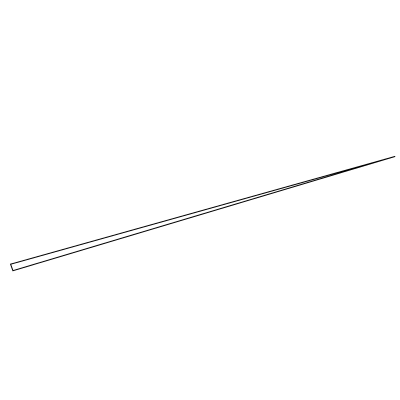
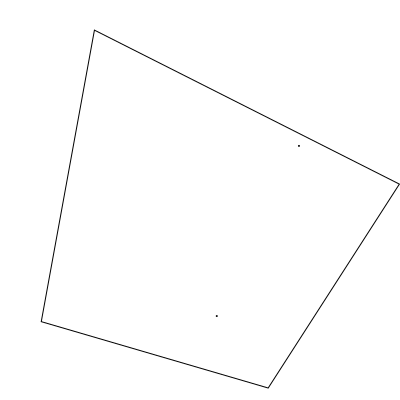
[FEAT]:랜덤 볼록 다각형 안에 점이 있는 생성기 추가

diff --git a/data/randomSampling/InsidePointsGenerator.js b/data/randomSampling/InsidePointsGenerator.js
@@ -1,10 +1,69 @@
 module.exports = class InsidePointsGenerator {
-    constructor(minLat, maxLat, minLng, maxLng) {
-        // 위도 범위
-        this.minLat = minLat;
-        this.maxLat = maxLat;
-        // 경도 범위
-        this.minLng = minLng;
-        this.maxLng = maxLng; 
+    constructor() {}
+    
+    getRandomLat(minLat, maxLat){
+        return Math.random() * (maxLat - minLat + 1) + minLat;
+    }
+    
+    getRandomLng(minLng, maxLng){
+        return Math.random() * (maxLng - minLng + 1) + minLng;
+    }
+
+    // 점 구하기
+    // polygon: 도형 좌표 배열
+    // count: 찍을 점 개수
+    generate(polygon, count){
+        let minLat = 1000;
+        let maxLat = 0;
+        let minLng = 1000;
+        let maxLng = 0 ;
+        // lat, lng의 최소 최대값 찾기
+        for(let i=0; i<polygon.length;i++){
+            if(minLat > polygon[i].lat){
+                minLat = polygon[i].lat;
+            } else if(maxLat < polygon[i].lat) {
+                maxLat = polygon[i].lat;
+            }
+            if(minLng > polygon[i].lng){
+                minLng = polygon[i].lng;
+            } else if(maxLng < polygon[i].lng) {
+                maxLng = polygon[i].lng;
+            }
+        }
+    
+        let selected_dots = [];
+        // 도형 내에 찍을 점 추가
+        for (let i=0;i<count;i++){
+            let randLat;
+            let randLng;
+            let isInside = false;
+            let test = 0
+            while(!isInside && test < 1000){
+                test++;
+                randLat = this.getRandomLat(minLat, maxLat);
+                randLng = this.getRandomLng(minLng, maxLng);
+                isInside = this.isInsidePolygon(randLat, randLng, polygon);
+            }
+            if (test == 1000) throw Error("fail");
+            selected_dots.push({ lat: randLat, lng: randLng});
+        }
+        
+        return selected_dots;
+    }
+
+
+    // 점이 다각형 내부에 있는지 확인하는 함수
+    isInsidePolygon(lat, lng, polygon) {
+        var isInside = false;
+        var i, j = polygon.length - 1;
+
+        for (i = 0; i < polygon.length; i++) {
+            if ((polygon[i].lng > lng) !== (polygon[j].lng > lng) &&
+                lat < (polygon[j].lat - polygon[i].lat) * (lng - polygon[i].lng) / (polygon[j].lng - polygon[i].lng) + polygon[i].lat) {
+                isInside = !isInside;
+            }
+            j = i;
+        }
+        return isInside;
     }
 }

diff --git a/data/randomSampling/main.js b/data/randomSampling/main.js
@@ -1,4 +1,5 @@
 const ConvexPointsGenerater = require('./ConvexPointsGenerater');
+const InsidePointsGenerator = require('./InsidePointsGenerator');
 const Drawer = require('./Drawer');
 
 // import Drawer from './Drawer';
@@ -7,7 +8,15 @@ const minLat = 37.413294, maxLat = 37.715133; // 위도 범위
 const minLng = 126.734086, maxLng = 127.269311; // 경도 범위
 
 
-const supplier = new ConvexPointsGenerater(minLat, maxLat, minLng, maxLng);
+const polygonSupplier = new ConvexPointsGenerater(minLat, maxLat, minLng, maxLng);
+const insideDotSupplier = new InsidePointsGenerator(minLat, maxLat, minLng, maxLng);
+
 const drawer = new Drawer(400, 400, minLat, maxLat, minLng, maxLng);
 
-drawer.drawInsideConvex(supplier.generate(3), []);
+function testGenerator(n, insidePoints) {
+    polygon = polygonSupplier.generate(n);
+    insidePoints = insideDotSupplier.generate(polygon, insidePoints);
+    drawer.drawInsideConvex(polygon, insidePoints);
+}
+
+testGenerator(4, 2);

diff --git a/data/randomSampling/Drawer.js b/data/randomSampling/Drawer.js
@@ -54,9 +54,11 @@ class Drawer {
         // 내부 점 표현
         insideDotsCanvas.forEach(dot => {
             ctx.beginPath();
-            ctx.arc(dot.x, dot.y, 3, 0, 2 * Math.PI); // 작은 원으로 점 표현
+            ctx.arc(dot.lng, dot.lat, 1, 0, 2 * Math.PI); // 작은 원으로 점 표현
+            ctx.fillStyle = 'black'; // 원의 채우기 색상을 검은색으로 설정
             ctx.fill();
         });
+
         const out = fs.createWriteStream(__dirname + `/insideConvex${this.id}.png`);
         const stream = canvas.createPNGStream();
         stream.pipe(out);
